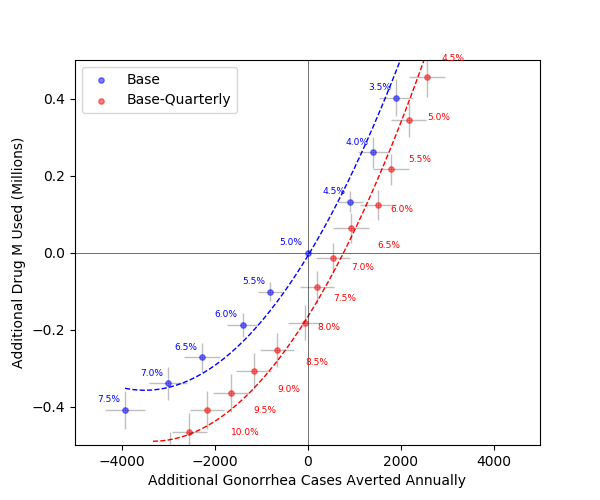
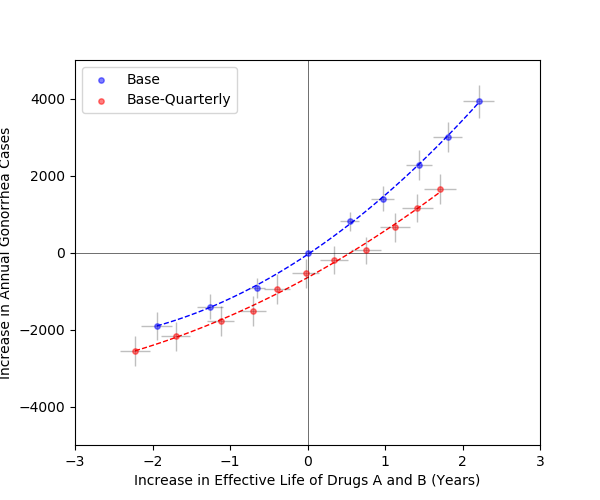
gono axes reversed

diff --git a/gonorrhea/GonoSettings.py b/gonorrhea/GonoSettings.py
@@ -35,7 +35,7 @@ DS_TESTS = 5000  # annual number of cases tested for drug-resistance
 varBase = [
     Cls.VariableCondition('Decision Period', 364, 364,
                           if_included_in_label=False),
-    Cls.VariableCondition('% Resistant Threshold', 0.01, 0.1,
+    Cls.VariableCondition('% Resistant Threshold', 0.035, 0.1,
                           if_included_in_label=True, label_format='{:.1%}'),
     Cls.VariableCondition('Change in % Resistant Threshold', 1, 1,
                           if_included_in_label=False),
@@ -45,7 +45,7 @@ varBase = [
 varBaseQuart = [
     Cls.VariableCondition('Decision Period', 91, 91,
                           if_included_in_label=False),
-    Cls.VariableCondition('% Resistant Threshold', 0.03, 0.5,
+    Cls.VariableCondition('% Resistant Threshold', 0.05, 0.1,
                           if_included_in_label=True, label_format='{:.1%}'),
     Cls.VariableCondition('Change in % Resistant Threshold', 1, 1,
                           if_included_in_label=False, label_format='{:.1%}'),
@@ -83,8 +83,8 @@ base = Cls.Series('Base', 'blue',
 baseQuarterly = Cls.Series('Base-Quarterly', 'red',
                            variable_conditions=varBaseQuart,
                            if_find_frontier=False,
-                           labels_shift_x=2.5,
-                           labels_shift_y=-0.11)
+                           labels_shift_x=100,
+                           labels_shift_y=-0.05)
 baseEnhancedTesting = Cls.Series('Base with Enhanced Testing', 'red',
                                  variable_conditions=varBaseEnhancedTesting,
                                  if_find_frontier=False,

diff --git a/gonorrhea/SADisplaySeries.py b/gonorrhea/SADisplaySeries.py
@@ -42,7 +42,7 @@ def plot_series(list_series,
 
 
 # change this to false to show M used
-SHOW_EFFECTIVE_LIFE = False
+SHOW_EFFECTIVE_LIFE = True
 SIM_LENGTH = 50     # years
 
 if SHOW_EFFECTIVE_LIFE:
@@ -60,7 +60,7 @@ else:
     cost_mult = 1 / 1e6
     switch_cost_effect_on_figure = False
     Set.X_RANGE = (-5000, 5000)
-    Set.Y_RANGE = (-0.5, 0.5)
+    Set.Y_RANGE = (-0.6, 0.6)
     labels = ('Additional Gonorrhea Cases Averted Annually',
               'Additional Drug M Used (Millions)')
 
